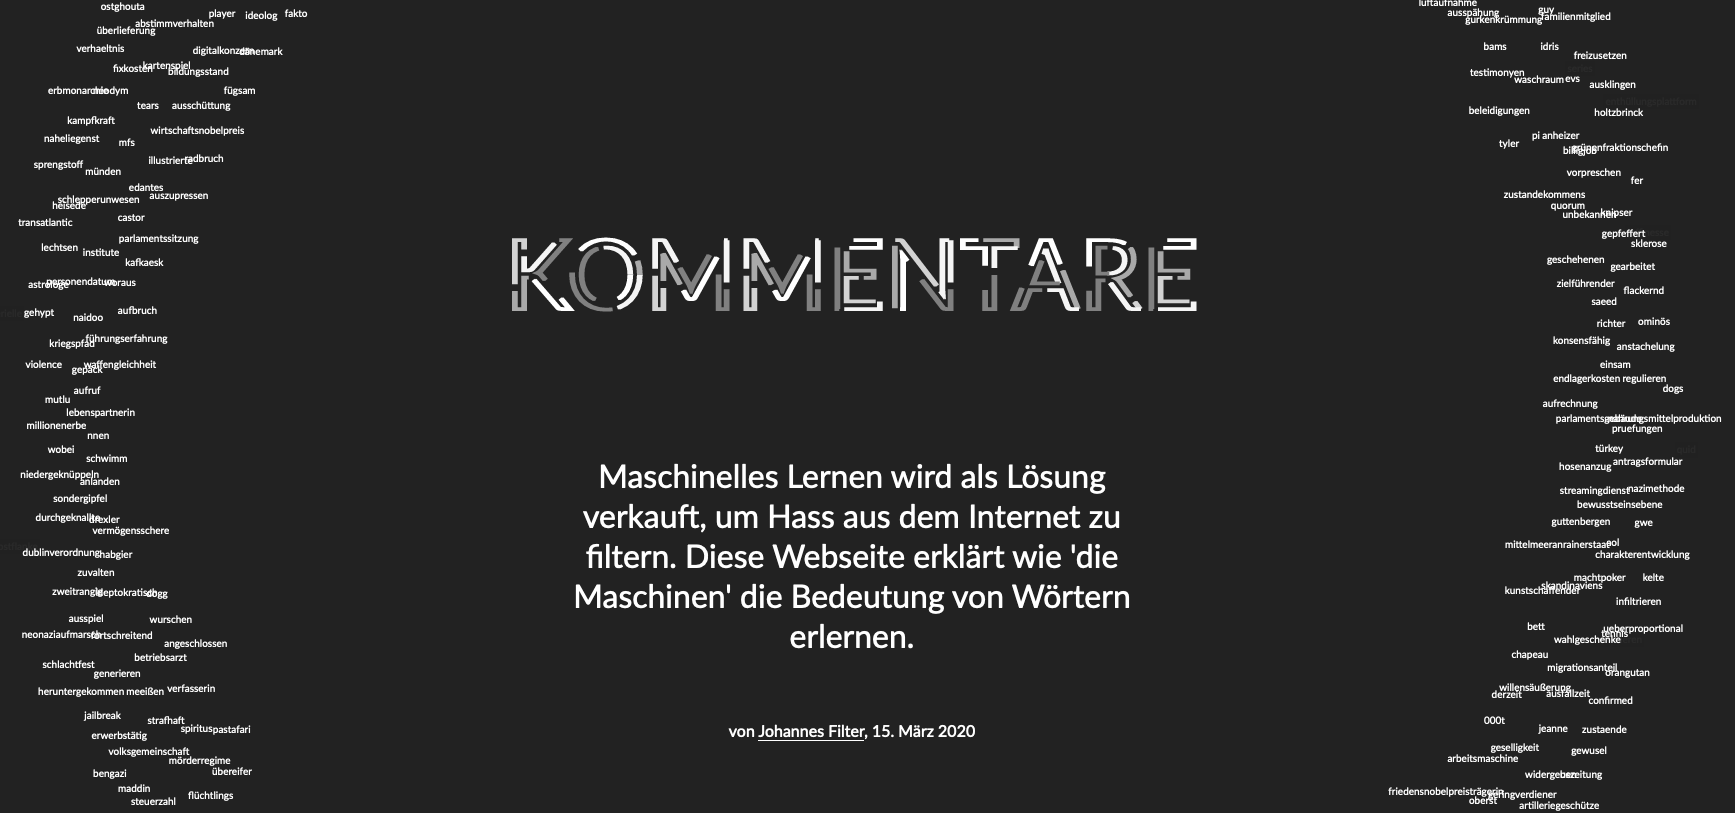
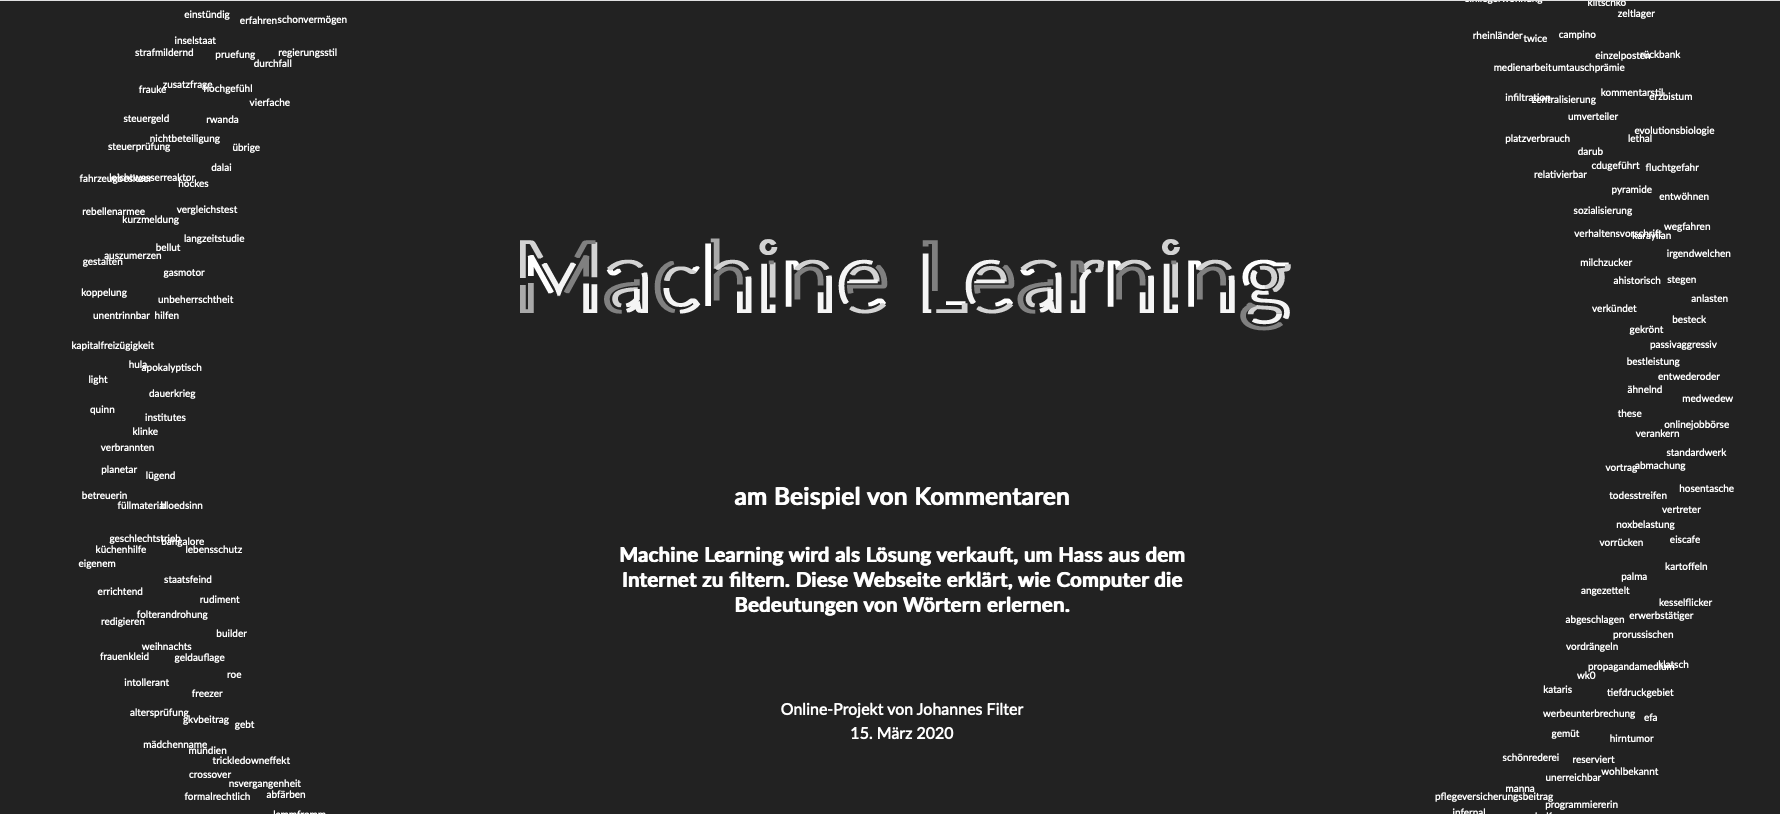
improve

diff --git a/components/infokasten.js b/components/infokasten.js
@@ -8,12 +8,15 @@ class Infokasten extends React.PureComponent {
         <p>
           Dies ist eine Visualisierung von einem Word Embedding. Das bedeutet,
           hier werden die Beziehungen zwischen den Worten gezeigt,
-          runtergebrochen auf zwei Dimensionen, einer Ebene. In der Mitte steht
-          ein Wort, darum herum angeordnet sind die zehn ähnlichsten Wörter
-          angeordnet. Je ähnlicher sich die Begriffe sind, desto kürzer sind die
-          Distanzen zueinander. Begriffe die sich unähnlich sind, werden visuell
-          weiter entfernt voneinander dargestellt. Die Achsen haben hier keine
-          Bedeutung. <a href="/hintergrund">Mehr Hintergrund-Informationen.</a>
+          runtergebrochen auf zwei Dimensionen (eine Ebene). In der Mitte steht
+          ein Wort, darum herum angeordnet sind ähnliche Wörter angeordnet. Je
+          ähnlicher sich die Begriffe sind, desto kürzer sind die Distanzen
+          zueinander. Begriffe die sich unähnlich sind, werden visuell weiter
+          entfernt voneinander dargestellt. Die Achsen haben hier keine
+          Bedeutung.{" "}
+          <a href="/hintergrund#wie-kann-ein-word-embedding-auf-einer-ebene-dargestellt-werden?">
+            Mehr Hintergrund-Informationen.
+          </a>
         </p>
       </div>
     );

diff --git a/styles.css b/styles.css
@@ -52,7 +52,7 @@ a {
 
 .article-header .dek {
   max-width: 30rem;
-  margin: 20rem auto 1rem;
+  margin: 15rem auto 1rem;
 }
 
 .idyll-pub-date,
@@ -63,7 +63,7 @@ a {
 
 .article-header .fancy-text {
   display: block;
-  font: 2rem "Lato";
+  font: 2.5rem "Lato";
   font-weight: bold;
   width: 100%;
   margin: 0rem auto;
@@ -73,7 +73,7 @@ a {
   fill: none;
   stroke: white;
   stroke-dasharray: 6% 29%;
-  stroke-width: 1px;
+  stroke-width: 1.5px;
   stroke-dashoffset: 0%;
   animation: stroke-offset 21s infinite linear;
 }
@@ -269,4 +269,16 @@ video {
   color: inherit;
   text-decoration: inherit;
   font-weight: inherit;
+}
+
+.overview_video {
+  width: 60%;
+  height: 60%;
+}
+
+@media (max-width: 992px) {
+  .overview_video {
+    width: 100%;
+    height: 100%;
+  }
 }

diff --git a/components/overview1.js b/components/overview1.js
@@ -24,8 +24,7 @@ class Overview1 extends React.PureComponent {
               autoPlay
               loop
               playsInline
-              width="60%"
-              height="60%"
+              className="overview_video"
               style={{ margin: "1rem auto" }}
             >
               <source
